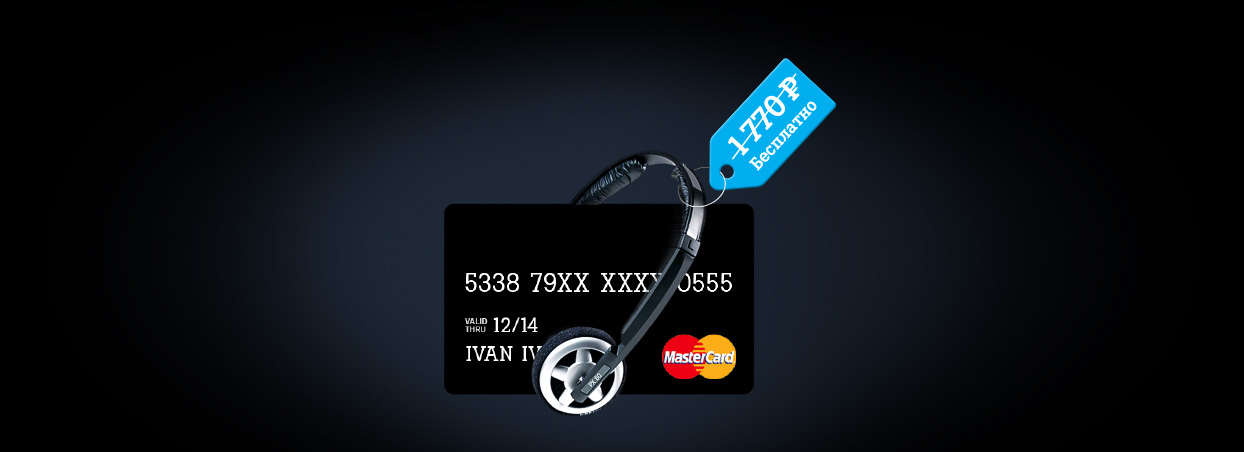
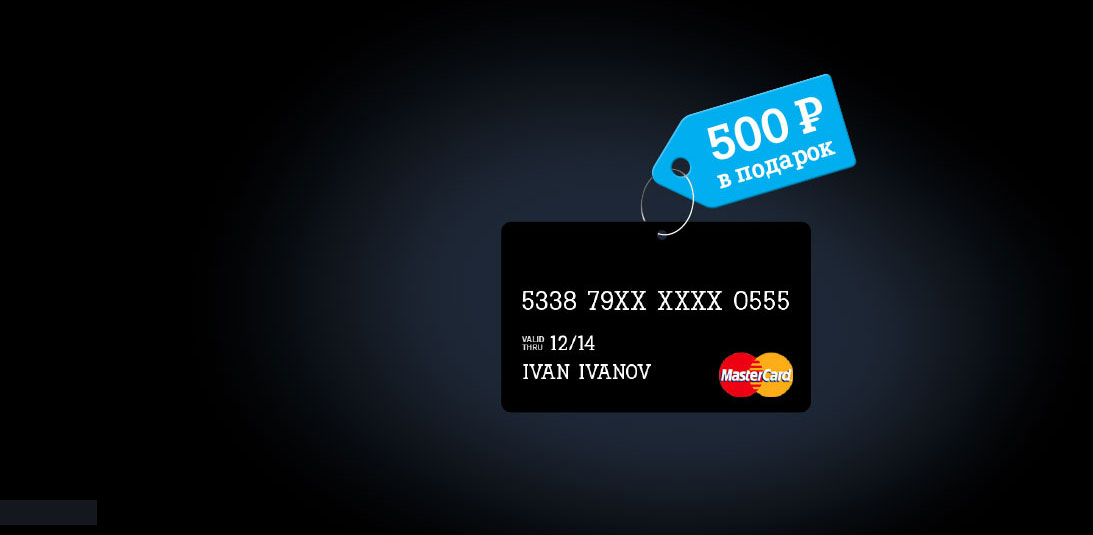
SITE-4295 Верстка лендинга МОБИ-Денег

Changed region(s): [[0.2177, 0.1239, 0.9021, 1.0], [0.0, 0.9292, 0.0933, 0.9912]]

diff --git a/web/styles/mobidengi/mobidengi.css b/web/styles/mobidengi/mobidengi.css
@@ -593,12 +593,13 @@ a[href^="tel"] {
     margin-top: -9px;
 }
 .landing_hd-land {
-    height: 332px;
+    height: 452px;
 }
 .landing_hd-land-bg {
-    /*height: 452px;*/
-    margin-left: -280px;
-    top: 0;
+	background: url("img/bg_hd.jpg") no-repeat 0 0;
+    height: 497px;
+    margin-left: -329px;
+    top: -12px;
     width: 1244px;
 }
 .landing_hd-land-gift {

diff --git a/main/template/mobidengi/page-index.php b/main/template/mobidengi/page-index.php
@@ -51,6 +51,7 @@
                 <a target="_blank" class="landing_hd-land-gift" href="https://mycard.tele2.ru/"></a> 
                 <div class="landing_hd-land_tx"> 
                     <div class="landing_hd-land_tx-1">Боитесь покупок онлайн? Напрасно. Теперь есть способ платить безопасно.</div>
+                    <div class="landing_hd-land_tx-2">Кстати, еще и выгодно — оплатите покупку виртуальной картой Tele2<br/>MasterCard и получите купон на 500 рубллей</div>
                     <a href="#terms" class="g-button mod_header">Получить купон на 500 руб.</a>
                 </div> 
             </div> 
